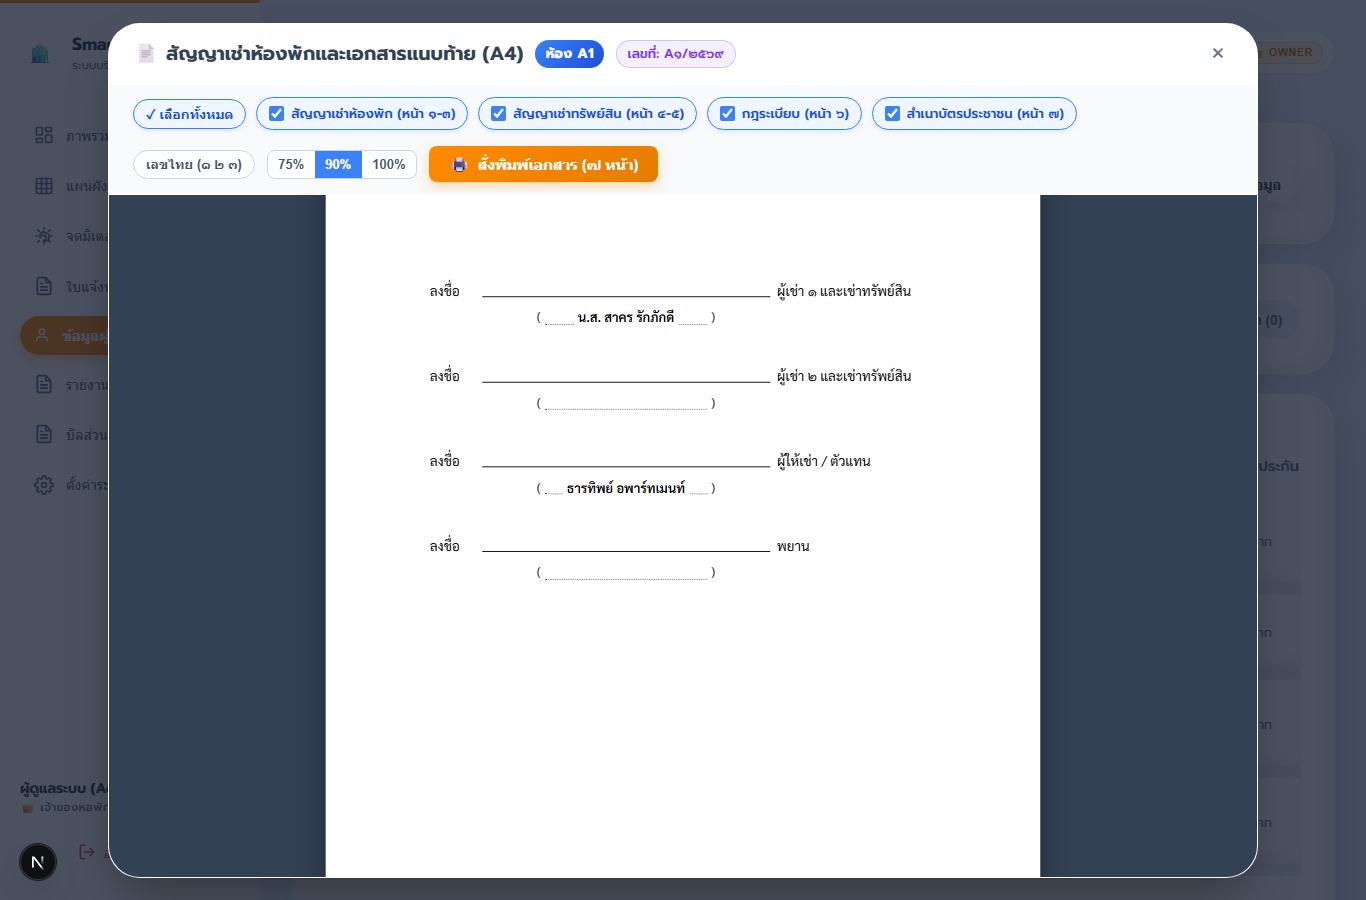
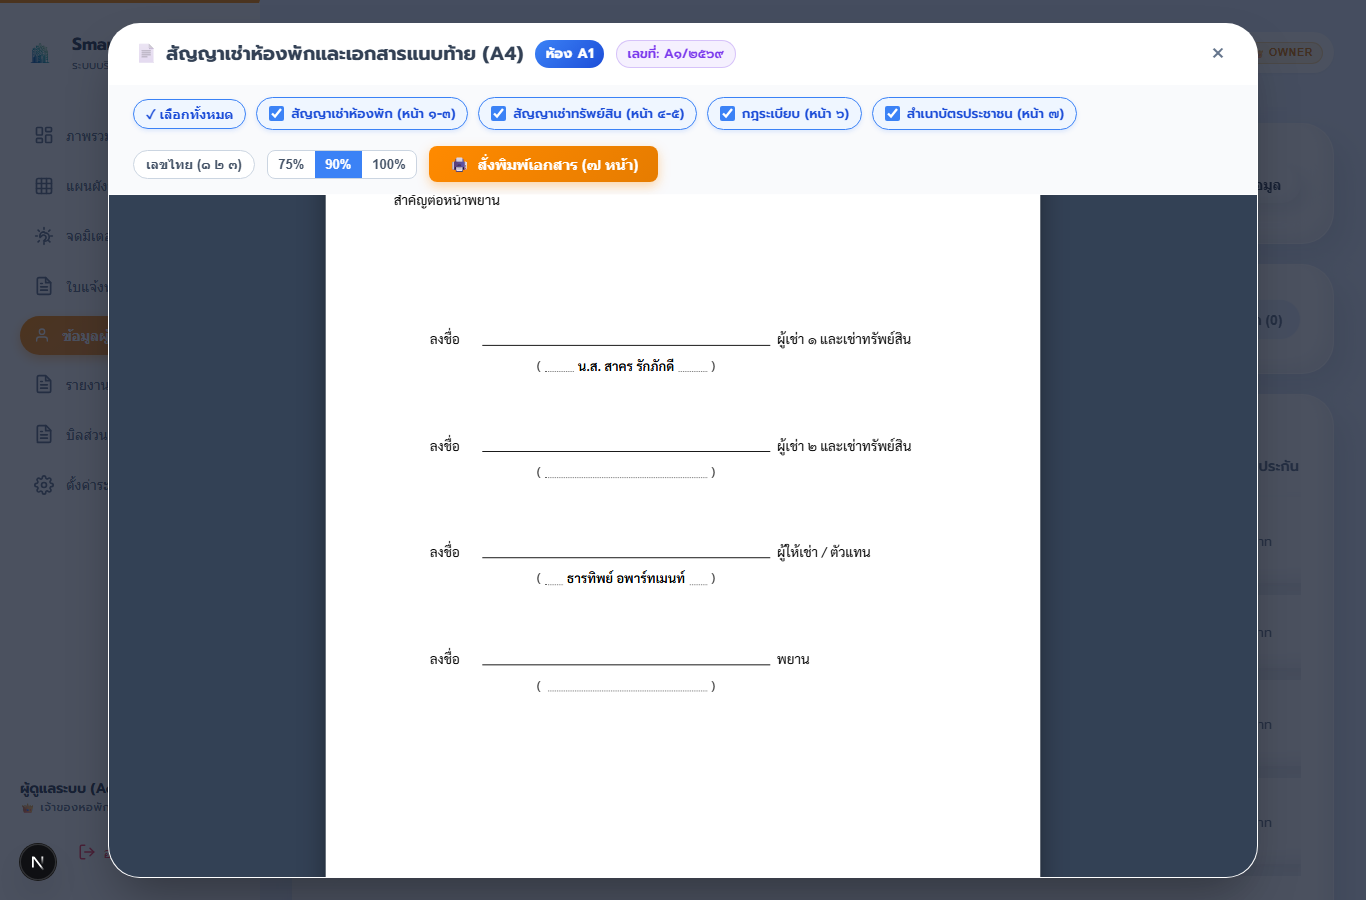
style(lease): expand line-height and section spacing to match original Thai contract PDF

diff --git a/src/components/modals/LeaseAgreementModal.tsx b/src/components/modals/LeaseAgreementModal.tsx
@@ -275,7 +275,7 @@ export default function LeaseAgreementModal({
       color: #000000 !important;
       font-family: 'Sarabun', 'TH Sarabun New', 'TH Sarabun PSK', Arial, sans-serif !important;
       font-size: 15px;
-      line-height: 1.55;
+      line-height: 1.85;
       -webkit-print-color-adjust: exact !important;
       print-color-adjust: exact !important;
     }
@@ -311,57 +311,63 @@ export default function LeaseAgreementModal({
     }
     .${styles.docHeaderRight} {
       text-align: right;
-      margin-bottom: 0.75rem;
-      line-height: 1.5;
+      margin-bottom: 1rem;
+      line-height: 1.85;
       font-size: 15px;
     }
     .${styles.docTitle} {
       text-align: center;
-      font-size: 19px;
+      font-size: 20px;
       font-weight: 700;
-      margin: 0.5rem 0 1.25rem 0;
+      margin: 0.6rem 0 1.35rem 0;
       letter-spacing: 0.02em;
     }
     .${styles.docSubTitle} {
       text-align: center;
       font-size: 16px;
       font-weight: 700;
-      margin-bottom: 0.75rem;
+      margin-bottom: 0.85rem;
     }
     .${styles.locationGrid} {
       display: flex;
       justify-content: space-between;
       align-items: flex-start;
-      margin-bottom: 1.25rem;
+      margin-bottom: 1.35rem;
       gap: 1.5rem;
     }
     .${styles.locationLeft} {
       flex: 1;
       font-size: 15px;
-      line-height: 1.6;
+      line-height: 2.0;
     }
     .${styles.locationRight} {
       flex: 1.5;
       font-size: 15px;
-      line-height: 1.5;
+      line-height: 1.85;
     }
     .${styles.docParagraph} {
       text-indent: 2.5rem;
       text-align: justify;
       text-justify: inter-cluster;
-      margin-bottom: 0.85rem;
-      line-height: 1.6;
+      margin-bottom: 1.35rem;
+      line-height: 2.15;
+    }
+    .${styles.tenantDetailBlock} {
+      margin-bottom: 1.35rem;
+      line-height: 2.25;
+      text-align: justify;
+      font-size: 15px;
     }
     .${styles.clauseHeader} {
       font-weight: 700;
-      margin-bottom: 0.75rem;
+      margin-bottom: 0.95rem;
       font-size: 15.5px;
     }
     .${styles.clauseItem} {
       display: flex;
       align-items: flex-start;
-      margin-bottom: 0.55rem;
-      line-height: 1.55;
+      margin-bottom: 0.75rem;
+      line-height: 1.85;
       text-align: justify;
       text-justify: inter-cluster;
     }
@@ -377,9 +383,9 @@ export default function LeaseAgreementModal({
       display: flex;
       align-items: flex-start;
       padding-left: 2rem;
-      margin-top: 0.3rem;
-      margin-bottom: 0.3rem;
-      line-height: 1.5;
+      margin-top: 0.4rem;
+      margin-bottom: 0.4rem;
+      line-height: 1.85;
     }
     .${styles.subClauseNum} {
       min-width: 2.2rem;
@@ -402,7 +408,7 @@ export default function LeaseAgreementModal({
       position: absolute !important;
       left: 0 !important;
       right: 0 !important;
-      bottom: 3px !important;
+      bottom: 4px !important;
       border-bottom: 1.5px dotted #000000 !important;
       pointer-events: none !important;
       z-index: 1 !important;
@@ -447,10 +453,10 @@ export default function LeaseAgreementModal({
       padding: 0 2px !important;
     }
     .${styles.signatureSection} {
-      margin-top: 2rem;
+      margin-top: 3.5rem;
       display: flex;
       flex-direction: column;
-      gap: 1.75rem;
+      gap: 3.25rem;
       padding-left: 2.5rem;
       padding-right: 1rem;
     }

diff --git a/src/components/modals/LeaseAgreementModal.module.css b/src/components/modals/LeaseAgreementModal.module.css
@@ -277,16 +277,16 @@
 /* Document Components */
 .docHeaderRight {
   text-align: right;
-  margin-bottom: 0.75rem;
-  line-height: 1.5;
+  margin-bottom: 1rem;
+  line-height: 1.85;
   font-size: 15px;
 }
 
 .docTitle {
   text-align: center;
-  font-size: 19px;
+  font-size: 20px;
   font-weight: 700;
-  margin: 0.5rem 0 1.25rem 0;
+  margin: 0.6rem 0 1.35rem 0;
   letter-spacing: 0.02em;
 }
 
@@ -294,61 +294,62 @@
   text-align: center;
   font-size: 16px;
   font-weight: 700;
-  margin-bottom: 0.75rem;
+  margin-bottom: 0.85rem;
 }
 
 .locationGrid {
   display: flex;
   justify-content: space-between;
   align-items: flex-start;
-  margin-bottom: 1.25rem;
+  margin-bottom: 1.35rem;
   gap: 1.5rem;
 }
 
 .locationLeft {
   flex: 1;
   font-size: 15px;
-  line-height: 1.6;
+  line-height: 2.0;
 }
 
 .locationRight {
   flex: 1.5;
   font-size: 15px;
-  line-height: 1.5;
+  line-height: 1.85;
 }
 
 .docParagraph {
   text-indent: 2.5rem;
   text-align: justify;
   text-justify: inter-cluster;
-  margin-bottom: 0.85rem;
-  line-height: 1.6;
+  margin-bottom: 1.35rem;
+  line-height: 2.15;
 }
 
 .tenantSectionTitle {
   font-weight: 700;
-  margin-top: 0.75rem;
-  margin-bottom: 0.35rem;
+  margin-top: 1rem;
+  margin-bottom: 0.5rem;
 }
 
 .tenantDetailBlock {
-  margin-bottom: 0.85rem;
-  line-height: 1.6;
+  margin-bottom: 1.35rem;
+  line-height: 2.25;
   text-align: justify;
+  font-size: 15px;
 }
 
 /* Clauses List */
 .clauseHeader {
   font-weight: 700;
-  margin-bottom: 0.75rem;
+  margin-bottom: 0.95rem;
   font-size: 15.5px;
 }
 
 .clauseItem {
   display: flex;
   align-items: flex-start;
-  margin-bottom: 0.55rem;
-  line-height: 1.55;
+  margin-bottom: 0.75rem;
+  line-height: 1.85;
   text-align: justify;
   text-justify: inter-cluster;
 }
@@ -367,9 +368,9 @@
   display: flex;
   align-items: flex-start;
   padding-left: 2rem;
-  margin-top: 0.3rem;
-  margin-bottom: 0.3rem;
-  line-height: 1.5;
+  margin-top: 0.4rem;
+  margin-bottom: 0.4rem;
+  line-height: 1.85;
 }
 
 .subClauseNum {
@@ -413,7 +414,7 @@
   position: absolute;
   left: 0;
   right: 0;
-  bottom: 3px;
+  bottom: 4px;
   border-bottom: 1.5px dotted #666666;
   pointer-events: none;
   z-index: 1;
@@ -466,10 +467,10 @@
 
 /* Signatures */
 .signatureSection {
-  margin-top: 2rem;
+  margin-top: 3.5rem;
   display: flex;
   flex-direction: column;
-  gap: 1.75rem;
+  gap: 3.25rem;
   padding-left: 2.5rem;
   padding-right: 1rem;
 }
